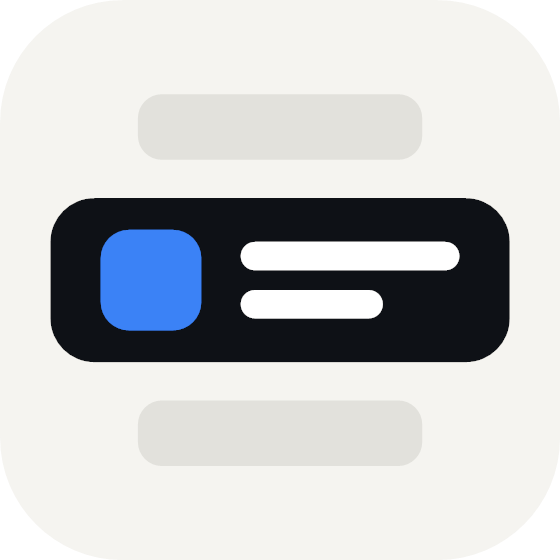
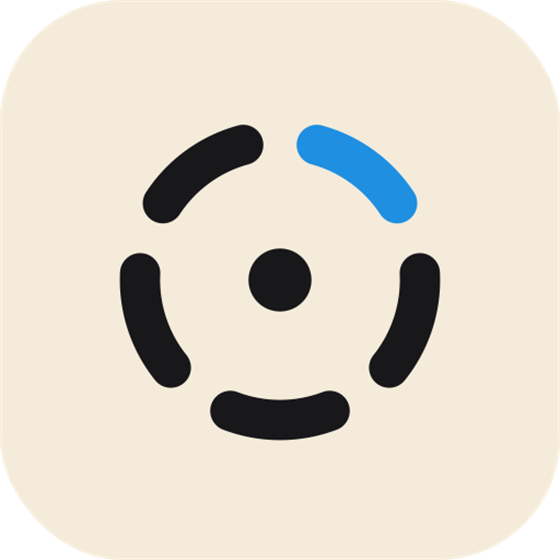
new classring livery and branding

Changed region(s): [[0.0911, 0.2125, 0.9107, 0.6982], [0.3643, 0.6982, 0.6375, 0.7893]]

diff --git a/client/src/App.jsx b/client/src/App.jsx
@@ -195,7 +195,6 @@ function App() {
     const reduceMotion = useReducedMotion();
 
     const [paletteOpen, setPaletteOpen] = useState(false);
-    const [faviconPrompt, setFaviconPrompt] = useState(false);
     useModernShellEffects(setPaletteOpen);
 
     // Drop settings left behind by the retired Classic interface
@@ -789,13 +788,12 @@ function App() {
     // set; 'atom' mutes it and points them at the atom-* copies. Installed app
     // icons are baked at install time, so this affects the tab icon immediately
     // and the home-screen icon on the next install/add-to-home-screen.
-    // Browsers cache icons aggressively, so a reload is needed after switching.
     useEffect(() => {
         const appIcon = document.getElementById('app-favicon');
         if (!appIcon) return;
         const atom = faviconType === 'atom';
 
-        const ICON_PREFIXES = ['apple-icon-', 'apple-touch-icon.png', 'android-icon-', 'maskable-icon-', 'ms-icon-', 'icon-', 'manifest.json'];
+        const ICON_PREFIXES = ['apple-icon-', 'apple-touch-icon.png', 'android-icon-', 'maskable-icon-', 'ms-icon-', 'favicon', 'icon-', 'manifest.json'];
         const mapIconHref = (href) => {
             if (!href || href.charAt(0) !== '/') return href;
             let path = href.slice(1);
@@ -826,11 +824,9 @@ function App() {
         else appIcon.removeAttribute('media');
     }, [faviconType]);
 
-    // Browsers cache favicons hard, so a change only fully applies after a reload.
     const handleFaviconTypeChange = (value) => {
         if (value === faviconType) return;
         setFaviconType(value);
-        setFaviconPrompt(true);
     };
 
     // Color Theme Config
@@ -1837,36 +1833,6 @@ function App() {
                     hiddenPages
                 })}
             />
-
-            {/* Favicon changed — prompt a reload so the browser picks it up */}
-            <AnimatePresence>
-                {faviconPrompt && (
-                    <motion.div
-                        initial={{ opacity: 0, y: 12 }}
-                        animate={{ opacity: 1, y: 0 }}
-                        exit={{ opacity: 0, y: 12 }}
-                        transition={{ duration: 0.2 }}
-                        className="fixed bottom-20 md:bottom-6 left-1/2 -translate-x-1/2 z-50 flex items-center gap-3 pl-4 pr-2 py-2 rounded-xl border border-m-line bg-m-panel/95 backdrop-blur-xl shadow-lg"
-                    >
-                        <span className="text-[13px] text-zinc-700 dark:text-zinc-200 whitespace-nowrap">
-                            Favicon updated — reload to apply it.
-                        </span>
-                        <button
-                            onClick={() => window.location.reload()}
-                            className="h-8 px-3 rounded-lg bg-zinc-900 dark:bg-white text-white dark:text-zinc-950 text-[13px] font-medium hover:bg-zinc-800 dark:hover:bg-zinc-200 transition-colors"
-                        >
-                            Reload
-                        </button>
-                        <button
-                            onClick={() => setFaviconPrompt(false)}
-                            aria-label="Dismiss"
-                            className="w-8 h-8 grid place-items-center rounded-lg text-zinc-400 hover:text-zinc-700 dark:hover:text-zinc-200 transition-colors"
-                        >
-                            <X size={15} />
-                        </button>
-                    </motion.div>
-                )}
-            </AnimatePresence>
 
             {/* Canvas Link Suggestions Toast */}
             <CanvasLinkSuggestions disabled={hiddenPages.includes('canvas-links') || currentView === 'canvas-links'} />

diff --git a/client/index.html b/client/index.html
@@ -27,7 +27,7 @@
       "@type": "Organization",
       "name": "Synchron",
       "url": "https://synchron.work/",
-      "logo": "https://synchron.work/synchron-rows-light-offwhite-512.png",
+      "logo": "https://synchron.work/synchron-ring-warm-icon.png",
       "email": "synchron.work@gmail.com",
       "contactPoint": {
         "@type": "ContactPoint",
@@ -62,7 +62,7 @@
     <!-- New logo; App.jsx disables it in atom mode so the PNG icon set takes over.
          Single off-white variant — the mark carries its own background, so it
          reads on light and dark browser chrome alike. -->
-    <link id="app-favicon" rel="icon" type="image/png" sizes="512x512" href="/synchron-rows-light-offwhite-512.png">
+    <link id="app-favicon" rel="icon" type="image/png" sizes="512x512" href="/synchron-ring-warm-icon.png">
     <script>
       // Apply the saved favicon/icon choice before first paint. 'default' keeps only
       // the app icon link active and points every icon asset at the new-logo set;
@@ -70,7 +70,7 @@
       // attributes are preserved in dataset.favMedia for restore.
       try {
         var atom = localStorage.getItem('favicon_type') === 'atom';
-        var ICON_PREFIXES = ['apple-icon-', 'apple-touch-icon.png', 'android-icon-', 'maskable-icon-', 'ms-icon-', 'icon-', 'manifest.json'];
+        var ICON_PREFIXES = ['apple-icon-', 'apple-touch-icon.png', 'android-icon-', 'maskable-icon-', 'ms-icon-', 'favicon', 'icon-', 'manifest.json'];
         function mapIconHref(href) {
           if (!href || href.charAt(0) !== '/') return href;
           var path = href.slice(1), isAtom = path.indexOf('atom-') === 0;
@@ -147,7 +147,7 @@
           <div class="mx-auto flex h-14 w-full max-w-6xl items-center justify-between px-5 sm:px-8">
             <a href="/" class="flex min-w-0 items-center gap-2.5" aria-label="Synchron home">
               <span class="relative w-7 h-7 shrink-0">
-                <img src="/synchron-rows-light-offwhite.svg" alt="" class="block w-full h-full rounded-lg" />
+                <img src="/synchron-ring-warm-vector.svg" alt="" class="block w-full h-full rounded-lg" />
                 <span class="absolute -right-0.5 -bottom-0.5 w-2 h-2 rounded-full bg-accent ring-2 ring-m-page"></span>
               </span>
               <span class="whitespace-nowrap text-[15px] font-semibold tracking-tight text-zinc-900 dark:text-white">Synchron</span>

diff --git a/client/src/components/PublicPrivacyPage.jsx b/client/src/components/PublicPrivacyPage.jsx
@@ -10,7 +10,7 @@ const PublicPrivacyPage = () => (
                 <div className="mx-auto flex h-14 w-full max-w-3xl items-center justify-between px-5 sm:px-8">
                     <a href="/" className="flex items-center gap-2.5" aria-label="Synchron home">
                         <span className="relative w-7 h-7">
-                            <img src="/synchron-rows-light-offwhite.svg" alt="" className="block w-full h-full rounded-lg" />
+                            <img src="/synchron-ring-warm-vector.svg" alt="" className="block w-full h-full rounded-lg" />
                             <span className="absolute -right-0.5 -bottom-0.5 w-2 h-2 rounded-full bg-accent ring-2 ring-m-page"></span>
                         </span>
                         <span className="text-[15px] font-semibold tracking-tight text-zinc-900 dark:text-white">Synchron</span>

diff --git a/client/privacy.html b/client/privacy.html
@@ -51,7 +51,7 @@
           <div class="mx-auto flex h-14 w-full max-w-3xl items-center justify-between px-5 sm:px-8">
             <a href="/" class="flex items-center gap-2.5" aria-label="Synchron home">
               <span class="relative w-7 h-7">
-                <img src="/synchron-rows-light-offwhite.svg" alt="" class="block w-full h-full rounded-lg" />
+                <img src="/synchron-ring-warm-vector.svg" alt="" class="block w-full h-full rounded-lg" />
                 <span class="absolute -right-0.5 -bottom-0.5 w-2 h-2 rounded-full bg-accent ring-2 ring-m-page"></span>
               </span>
               <span class="text-[15px] font-semibold tracking-tight text-zinc-900 dark:text-white">Synchron</span>

diff --git a/client/src/components/modern/ModernShell.jsx b/client/src/components/modern/ModernShell.jsx
@@ -84,7 +84,7 @@ const initialsOf = (user) => `${user?.givenName?.[0] || ''}${user?.surname?.[0] 
 export const BrandMark = ({ className = '' }) => (
     <div className={`relative w-7 h-7 ${className}`}>
         <img
-            src="/synchron-rows-light-offwhite.svg"
+            src="/synchron-ring-warm-vector.svg"
             alt="Synchron logo"
             className="block w-full h-full rounded-lg"
         />

diff --git a/client/vite.config.js b/client/vite.config.js
@@ -55,7 +55,7 @@ export default defineConfig({
           'maskable-icon-*.png',
           'apple-touch-icon.png',
           'manifest.json',
-          'atom-*.{png,json}'
+          'atom-*.{png,ico,json}'
         ],
         globIgnores: ['**/dev-*', '**/staging-*'],
         cleanupOutdatedCaches: true,
